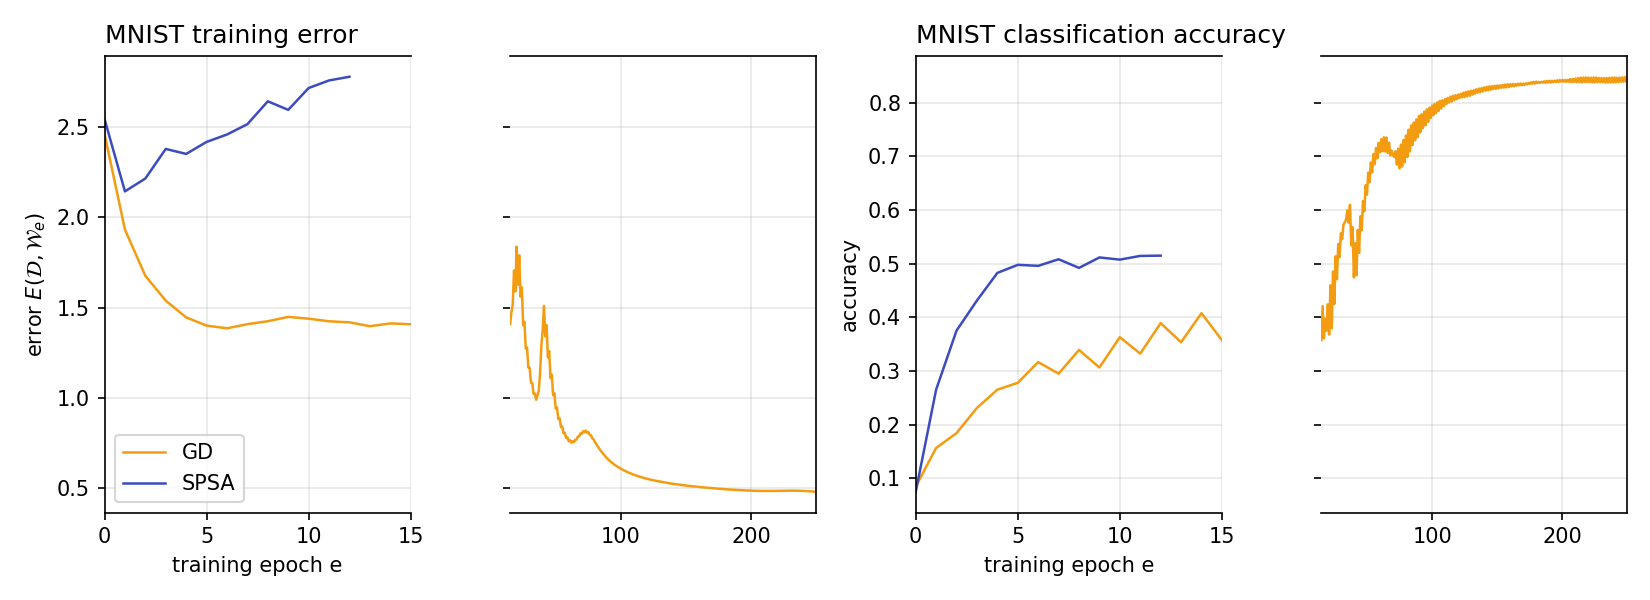
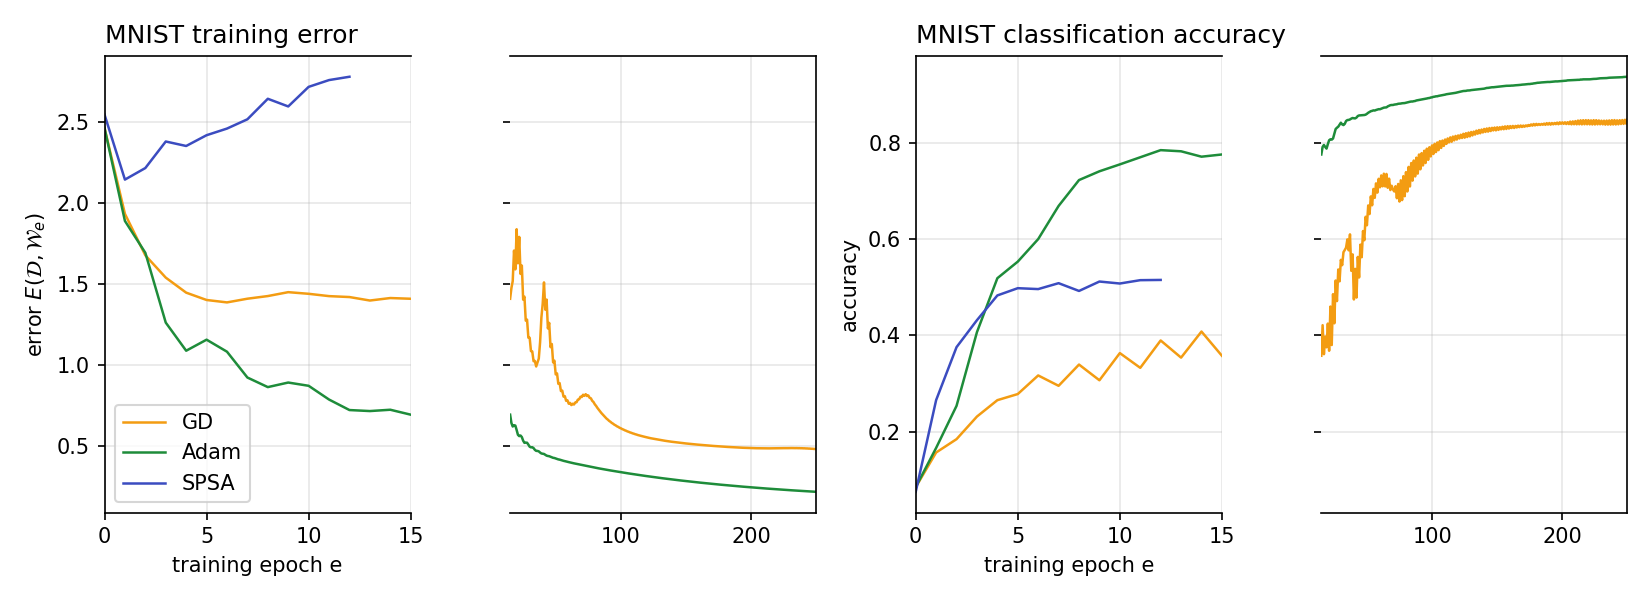
Add Adam optimizer to gradient descent baseline and update logs
- Implemented Adam optimizer in the gradient descent baseline for comparison in Fig. 2.
- Updated training logs for MNIST experiments, including results for Adam alongside SPSA and GD.
- Added new log file for MNIST with 155k parameters.
- Adjusted plotting functions to accommodate Adam results in visualizations.
- Enhanced documentation in gd.py to clarify optimizer options.
- Added tests to ensure Adam baseline reduces error as expected.

diff --git a/experiments/run_mnist.py b/experiments/run_mnist.py
@@ -1,4 +1,4 @@
-"""Reproduce Fig. 2: MNIST, layer-wise SPSA vs gradient descent.
+"""Reproduce Fig. 2: MNIST, layer-wise SPSA vs gradient descent, plus an Adam baseline.
 
 Network: 784x784x196x10 tanh network = 771,270 parameters, the count the paper states
 (p. 570) and its "close to a million parameters" claims. The paper's prose topology
@@ -11,7 +11,7 @@ beta = 1, one-hot targets in {0, 1}^10. GD baseline: learning rate 0.01.
 Examples
 --------
     python experiments/run_mnist.py                    # SPSA (3 runs) + GD, full paper protocol
-    python experiments/run_mnist.py --skip-gd          # only SPSA
+    python experiments/run_mnist.py --skip-gd --skip-adam   # only SPSA
     python experiments/run_mnist.py --quick            # 10k training images, 3 SPSA / 20 GD epochs
     python experiments/run_mnist.py --device cpu
 
@@ -62,6 +62,12 @@ def parse_args() -> argparse.Namespace:
     p.add_argument("--gd-epochs", type=int, default=250)
     p.add_argument("--gd-batch-size", type=int, default=None, help="default: full-batch GD")
     p.add_argument("--skip-gd", action="store_true")
+    # Adam baseline (not in the paper; added as a second conventional optimizer)
+    p.add_argument("--adam-lr", type=float, default=0.0003,
+                   help="Adam learning rate; 3e-4 (1e-3 collapses to a single predicted class on the 771k network)")
+    p.add_argument("--adam-epochs", type=int, default=None, help="default: same as --gd-epochs")
+    p.add_argument("--adam-batch-size", type=int, default=None, help="default: full batch, like the GD baseline")
+    p.add_argument("--skip-adam", action="store_true")
     p.add_argument("--skip-spsa", action="store_true")
     # general
     p.add_argument("--hidden", type=int, nargs="+", default=[784, 196],
@@ -85,6 +91,7 @@ def main() -> None:
         args.n_train = args.n_train or 10000
         args.epochs = min(args.epochs, 3)
         args.gd_epochs = min(args.gd_epochs, 20)
+        args.adam_epochs = min(args.adam_epochs or args.gd_epochs, 20)
     seed_everything(args.seed)
     device = get_device(args.device)
     SIZES = [784, *args.hidden, 10]
@@ -127,15 +134,24 @@ def main() -> None:
                             log_every=max(1, args.gd_epochs // 10), log_prefix="[GD] ")
         out["gd"] = {"config": gcfg.to_dict(), **ghist}
 
-    if "spsa" not in out and "gd" not in out:
+    if not args.skip_adam:
+        acfg = gd.GDConfig(sizes=SIZES, lr=args.adam_lr, epochs=args.adam_epochs or args.gd_epochs,
+                           batch_size=args.adam_batch_size, optimizer="adam", beta=1.0, init=args.init,
+                           seed=args.seed)
+        print("\n--- Adam baseline ---")
+        _, ahist = gd.train(x_tr, y_tr, acfg, device, eval_fn=eval_fn,
+                            log_every=max(1, acfg.epochs // 10), log_prefix="[Adam] ")
+        out["adam"] = {"config": acfg.to_dict(), **ahist}
+
+    if not any(k in out for k in ("spsa", "gd", "adam")):
         return
     # keep results of a previous run of the other method if only one was re-run
     prev_path = results_dir() / f"{args.name}.json"
-    if prev_path.exists() and (args.skip_gd or args.skip_spsa):
+    if prev_path.exists() and (args.skip_gd or args.skip_spsa or args.skip_adam):
         from _common import load_json
 
         prev = load_json(prev_path)
-        for k in ("spsa", "gd"):
+        for k in ("spsa", "gd", "adam"):
             if k not in out and k in prev:
                 out[k] = prev[k]
     save_json(out, prev_path)

diff --git a/spsa_nn/gd.py b/spsa_nn/gd.py
@@ -1,7 +1,13 @@
-"""Gradient-descent baseline (backpropagation) used for comparison in Fig. 2.
+"""Backpropagation baselines used for comparison in Fig. 2.
 
-Mirrors ``tf.train.GradientDescentOptimizer(learning_rate)`` applied to the
-same network and the same squared-residual objective (mean over the batch).
+optimizer='sgd'  plain gradient descent, p <- p - lr * grad; with the default
+                 full batch this mirrors ``tf.train.GradientDescentOptimizer``
+                 as in the paper.
+optimizer='adam' Adam (Kingma & Ba, 2015) with the usual defaults
+                 (betas 0.9 / 0.999, eps 1e-8), via ``torch.optim.Adam``.
+
+Both use the same network, initialisation and squared-residual objective
+(mean over the batch) as SPSA.
 """
 from __future__ import annotations
 
@@ -21,6 +27,7 @@ class GDConfig:
     lr: float = 0.01
     epochs: int = 250
     batch_size: Optional[int] = None   # None = full-batch gradient descent
+    optimizer: str = "sgd"             # 'sgd' (plain gradient descent) or 'adam'
     beta: float = 1.0
     init: str = "glorot"
     seed: int = 0
@@ -45,6 +52,10 @@ def train(
         p.requires_grad_(True)
     n = x.shape[0]
     bs = cfg.batch_size or n
+    if cfg.optimizer == "adam":
+        adam = torch.optim.Adam(params, lr=cfg.lr)
+    elif cfg.optimizer != "sgd":
+        raise ValueError(f"optimizer must be 'sgd' or 'adam', got {cfg.optimizer!r}")
 
     history: Dict[str, list] = {"error": [], "time": []}
 
@@ -67,10 +78,15 @@ def train(
                 idx = perm[i:i + bs]
                 xb, yb = x[idx], y[idx]
             loss = mlp.error(mlp.forward(xb, params, cfg.beta), yb, "mean").sum()
-            grads = torch.autograd.grad(loss, params)
-            with torch.no_grad():
-                for p, g in zip(params, grads):
-                    p.sub_(cfg.lr * g)
+            if cfg.optimizer == "adam":
+                adam.zero_grad(set_to_none=True)
+                loss.backward()
+                adam.step()
+            else:
+                grads = torch.autograd.grad(loss, params)
+                with torch.no_grad():
+                    for p, g in zip(params, grads):
+                        p.sub_(cfg.lr * g)
         record(time.perf_counter() - t0)
         if log_every and (e % log_every == 0 or e == cfg.epochs):
             msg = f"{log_prefix}epoch {e:4d}/{cfg.epochs}  E {history['error'][-1][0]:.4f}"

diff --git a/spsa_nn/plotting.py b/spsa_nn/plotting.py
@@ -61,8 +61,8 @@ def plot_error_curves(ax, errors: Dict[str, Sequence], title: Optional[str] = No
 
 
 def plot_mnist(spsa: Dict[str, list], gd: Optional[Dict[str, list]], path: str,
-               split_at: Optional[int] = None) -> None:
-    """Fig. 2: training error and test accuracy, SPSA vs GD, with a broken x-axis."""
+               split_at: Optional[int] = None, adam: Optional[Dict[str, list]] = None) -> None:
+    """Fig. 2: training error and test accuracy, SPSA vs GD (and Adam), with a broken x-axis."""
     fig = plt.figure(figsize=(11, 4))
     keys = [("error", r"error $E(\mathcal{D}, \mathcal{W}_e)$", "MNIST training error"),
             ("test_acc", "accuracy", "MNIST classification accuracy")]
@@ -72,6 +72,7 @@ def plot_mnist(spsa: Dict[str, list], gd: Optional[Dict[str, list]], path: str,
         left = fig.add_subplot(1, 4, 2 * i + 1)
         right = fig.add_subplot(1, 4, 2 * i + 2, sharey=left)
         for name, hist, color in (("GD", gd, VARIANT_COLORS["top-down"]),
+                                  ("Adam", adam, VARIANT_COLORS["random"]),
                                   ("SPSA", spsa, VARIANT_COLORS["bottom-up"])):
             if hist is None or key not in hist:
                 continue
@@ -81,8 +82,9 @@ def plot_mnist(spsa: Dict[str, list], gd: Optional[Dict[str, list]], path: str,
             if len(v) > split:
                 right.plot(ep[split:], v[split:], color=color, lw=1.2)
         left.set_xlim(0, split)
-        if gd is not None and len(gd.get(key, [])) > split:
-            right.set_xlim(split, len(gd[key]) - 1)
+        longest = max((len(h.get(key, [])) for h in (gd, adam) if h is not None), default=0)
+        if longest > split + 1:
+            right.set_xlim(split, longest - 1)
         else:
             right.set_visible(False)
         left.set_ylabel(ylabel)

diff --git a/tests/test_spsa_nn.py b/tests/test_spsa_nn.py
@@ -119,6 +119,15 @@ def test_gd_baseline_runs():
     assert len(hist["error"]) == 4
 
 
+def test_adam_baseline_reduces_error():
+    data = datasets.make_moons(n=100)
+    cfg = gd.GDConfig(sizes=[2, 5, 1], lr=0.01, epochs=30, beta=0.5, optimizer="adam")
+    _, hist = gd.train(data.x, data.y, cfg, CPU)
+    assert len(hist["error"]) == 31 and hist["error"][-1][0] < hist["error"][0][0]
+    with pytest.raises(ValueError):
+        gd.train(data.x, data.y, gd.GDConfig(sizes=[2, 5, 1], epochs=1, optimizer="rmsprop"), CPU)
+
+
 def test_datasets_shapes_and_labels():
     for name, m in (("xor", 1), ("moons", 1), ("circles", 3)):
         d = datasets.load_didactic(name)

diff --git a/experiments/summarize.py b/experiments/summarize.py
@@ -41,7 +41,7 @@ def mnist_table(d: Path) -> list[str]:
         sizes = [784, *res.get("args", {}).get("hidden", [784, 196]), 10]
         n_params = sum(a * b + b for a, b in zip(sizes[:-1], sizes[1:]))
         net = f"{'x'.join(map(str, sizes))} ({n_params:,})"
-        for key, label in (("spsa", "SPSA"), ("gd", "GD")):
+        for key, label in (("spsa", "SPSA"), ("gd", "GD"), ("adam", "Adam")):
             if key not in res:
                 continue
             h, cfg = res[key], res[key]["config"]

diff --git a/experiments/plot_results.py b/experiments/plot_results.py
@@ -67,7 +67,7 @@ def plot_mnist_results(name: str = "mnist") -> None:
         return
     res = load_json(path)
     out = results_dir() / ("fig2.png" if name == "mnist" else f"fig2_{name}.png")
-    plot_mnist(res.get("spsa"), res.get("gd"), str(out))
+    plot_mnist(res.get("spsa"), res.get("gd"), str(out), adam=res.get("adam"))
     print(f"saved {out}")
 
 

diff --git a/README.md b/README.md
@@ -198,11 +198,17 @@ default).
 
 ```bash
 python scripts/download_mnist.py          # once (also happens automatically)
-python experiments/run_mnist.py           # 3 SPSA runs x 12 epochs + GD 250 epochs, ~6 min on an RTX 3050
+python experiments/run_mnist.py           # 3 SPSA runs x 12 epochs + GD and Adam 250 epochs each, ~6.5 min on an RTX 3050
 ```
 Output: `results/mnist.json`, `results/fig2.png`.
 Options include `--hidden`, `--a --c --alpha --gamma --t-max --epochs --runs --objective --batch-size --init`,
-`--gd-lr --gd-epochs --gd-batch-size`, and `--skip-gd` / `--skip-spsa`.
+`--gd-lr --gd-epochs --gd-batch-size`, `--adam-lr --adam-epochs --adam-batch-size`, and
+`--skip-spsa` / `--skip-gd` / `--skip-adam`.
+
+Besides the paper's gradient-descent baseline, every MNIST run also trains an
+**Adam** baseline (`torch.optim.Adam`, lr 3·10⁻⁴, full batch, 250 epochs) on
+the same network, initialisation and loss, so SPSA is compared with both a
+plain and an adaptive conventional optimizer.
 
 ### 4.5 MNIST ablations from the text of Sect. 4.2
 
@@ -269,7 +275,8 @@ python -m pytest -q          # 19 tests, ~10 s (the CUDA test is skipped without
 | Eqs. 11–13 (top-down / bottom-up / random) | `layerwise.epoch_schedule` |
 | holistic baseline | `order="holistic"` |
 | Sect. 4.2 "first weights, then biases" | `TrainConfig(split_bias=True)` |
-| GD baseline (`tf.train.GradientDescentOptimizer`, lr 0.01) | `spsa_nn/gd.py` |
+| GD baseline (`tf.train.GradientDescentOptimizer`, lr 0.01) | `spsa_nn/gd.py`, `optimizer="sgd"` |
+| Adam baseline (not in the paper) | `spsa_nn/gd.py`, `optimizer="adam"` |
 
 ## 6. Settings and the choices the paper leaves open
 
@@ -299,6 +306,7 @@ changed from the command line:
 | MNIST SPSA objective | `tf.reduce_mean((y−ŷ)²)` = Eq. 9 / (n·10) | TF-style loss. With Eq. 9 / n, a = 0.1 diverges |
 | logged MNIST error | Eq. 9 / n | the scale of the y-axis in Fig. 2 |
 | GD baseline | full-batch | matches the slow GD curve in Fig. 2 (lr 0.01) |
+| Adam baseline (extra, not in the paper) | lr 3·10⁻⁴, betas 0.9 / 0.999, full batch, 250 epochs | full batch keeps one update per epoch, like GD. The usual 10⁻³ collapses on the 771k network (it predicts one class for all 250 epochs); 3·10⁻⁴ trains both networks |
 | holistic budget | L SPSA calls of t_max iterations per epoch | same number of forward passes as layer-wise |
 | random order | independent permutation per trial and per epoch | Eq. 13 |
 
@@ -342,6 +350,7 @@ against them: `python experiments/summarize.py --dir paper_results/data`.
 | Fig. 1c/f: holistic doesn't converge on circles | ✅ yes | only 40 % of trials ≥ 95 % accuracy, vs 100 % for layer-wise |
 | Fig. 2: SPSA learns faster than GD in the first epochs | ✅ yes | epoch 12: 0.515 (SPSA) vs 0.389 (GD) test accuracy |
 | Fig. 2: GD ends higher after long training | ✅ yes | GD 0.848 at epoch 250 |
+| Extra: comparison with Adam (not in the paper) | – | Adam is ahead of SPSA from epoch 4 on the 771k network (0.784 vs 0.515 at epoch 12) and ends at 0.937; on the 155k network Adam ≈ SPSA at epoch 12 (0.532 vs 0.548), then 0.896 |
 | Fig. 2: SPSA ≈ 0.72 test accuracy at epoch 12, training error falling | ⚠ partly | 0.515 (0.48–0.56 over 3 runs); the training error rises slightly (2.55 → 2.78) |
 | Sect. 4.2: holistic SPSA fails on MNIST | ⚠ partly | the objective diverges (E 2.55 → 5.60); accuracy still climbs to 0.47 |
 | Sect. 4.2: no learning without the weights/biases split | ❌ no | without the split: 0.527, same as with it (0.515) |
@@ -380,6 +389,7 @@ Main experiment, 771,270-parameter network (784×784×196×10):
 |---|---|---|---|---|---|---|---|---|
 | `mnist` | 784×784×196×10 (771,270) | SPSA | bottom-up | yes | 12 | 2.55 → 2.78 | 0.481, 0.558, 0.505 | 0.515 |
 | `mnist` | 784×784×196×10 (771,270) | GD (full batch, lr 0.01) | – | – | 250 | 2.46 → 0.48 | 0.389 | 0.848 |
+| `mnist` | 784×784×196×10 (771,270) | **Adam** (full batch, lr 3·10⁻⁴) | – | – | 250 | 2.46 → 0.22 | 0.784 | **0.937** |
 | `mnist_holistic` | 784×784×196×10 (771,270) | SPSA | holistic | yes | 12 | 2.55 → **5.60** | 0.465, 0.408, 0.527 | 0.467 |
 | `mnist_no_split_bias` | 784×784×196×10 (771,270) | SPSA | bottom-up | no | 12 | 2.55 → 2.71 | 0.524, 0.484, 0.572 | 0.527 |
 
@@ -389,6 +399,7 @@ For comparison, the literal text topology (784×196×10):
 |---|---|---|---|---|---|---|---|---|
 | `mnist_155k` | 784×196×10 (155,830) | SPSA | bottom-up | yes | 12 | 2.54 → 2.01 | 0.519, 0.566, 0.558 | 0.548 |
 | `mnist_155k` | 784×196×10 (155,830) | GD (full batch, lr 0.01) | – | – | 250 | 2.34 → 0.55 | 0.352 | 0.805 |
+| `mnist_155k` | 784×196×10 (155,830) | **Adam** (full batch, lr 3·10⁻⁴) | – | – | 250 | 2.34 → 0.33 | 0.532 | **0.896** |
 | `mnist_155k_holistic` | 784×196×10 (155,830) | SPSA | holistic | yes | 12 | 2.54 → **4.37** | 0.482, 0.493, 0.481 | 0.485 |
 | `mnist_155k_no_split_bias` | 784×196×10 (155,830) | SPSA | bottom-up | no | 12 | 2.54 → 1.98 | 0.559, 0.587, 0.530 | 0.558 |
 
@@ -406,15 +417,46 @@ paper doesn't report (init, loss scale, gain schedule), all of which can be
 changed through `run_mnist.py` flags. GD benefits from the bigger network
 (0.848 vs 0.805).
 
+#### SPSA vs. GD vs. Adam
+
+Test accuracy (mean of the 3 SPSA runs; GD and Adam are single runs):
+
+| network | method | epoch 1 | epoch 3 | epoch 12 | epoch 50 | epoch 250 | training error, epoch 12 |
+|---|---|---|---|---|---|---|---|
+| 771k | SPSA (forward passes only) | **0.265** | **0.431** | 0.515 | – | – | 2.78 |
+| 771k | GD, lr 0.01 | 0.157 | 0.231 | 0.389 | 0.628 | 0.848 | 1.42 |
+| 771k | Adam, lr 3·10⁻⁴ | 0.166 | 0.407 | **0.784** | 0.860 | **0.937** | 0.72 |
+| 155k | SPSA (forward passes only) | **0.195** | **0.299** | **0.548** | – | – | 2.01 |
+| 155k | GD, lr 0.01 | 0.095 | 0.136 | 0.352 | 0.630 | 0.805 | 1.24 |
+| 155k | Adam, lr 3·10⁻⁴ | 0.094 | 0.149 | 0.532 | 0.800 | **0.896** | 1.07 |
+
+* **Early on, SPSA leads both.** It is ahead of GD and Adam for the first 3
+  epochs on both networks, and still ahead of GD at epoch 12. It is also tied
+  with Adam at epoch 12 on the 155k network.
+* **Adam is the strongest overall.** It overtakes SPSA around epoch 4 on the
+  771k network and ends highest on both (0.937 / 0.896). Its training error
+  falls steadily, while SPSA's stalls (155k) or creeps up (771k).
+* **Plain GD is the slowest early** but keeps improving; GD and Adam both
+  continue well past where SPSA levels off at about 0.5.
+* **Epochs aren't equal work.** One SPSA epoch is 6 blocks (weights and biases
+  of 3 layers) × 50 iterations = 300 parameter updates and 600 forward passes
+  over the training set. One GD or Adam epoch is a single update, using one
+  forward and one backward pass. SPSA's early lead therefore costs far more
+  forward passes, but it never needs a gradient or backpropagation.
+* **Adam needs a smaller learning rate here.** At Adam's usual lr = 10⁻³, the
+  771k network gets stuck predicting a single digit (test accuracy 0.1135 for
+  all 250 epochs, while the error still falls). lr = 3·10⁻⁴ trains both
+  networks, so that value is used for both.
+
 ### Runtimes (RTX 3050 Laptop GPU)
 
 | experiment | time |
 |---|---|
 | xor or moons, all 4 variants | ≈ 1.5 min |
 | circles, all 4 variants (100 trials × 500 epochs) | ≈ 70 min |
-| MNIST 771k: SPSA 3 runs × 12 epochs + GD 250 epochs | ≈ 5 min + 40 s |
+| MNIST 771k: SPSA 3 runs × 12 epochs + GD and Adam 250 epochs each | ≈ 5 min + 40 s + 40 s |
 | MNIST 771k ablations: holistic / no split | ≈ 6 min / 2.5 min |
-| MNIST 155k: SPSA + GD, and each ablation | ≈ 1.2 min, 0.5–1 min |
+| MNIST 155k: SPSA + GD + Adam, and each ablation | ≈ 1.3 min, 0.5–1 min |
 
 Random order and holistic are slower because they can't cache the outputs
 of the fixed lower layers. The tiny didactic networks are limited by

diff --git a/paper_results/SUMMARY.md b/paper_results/SUMMARY.md
@@ -21,8 +21,10 @@
 |---|---|---|---|---|---|---|---|---|
 | mnist | 784x784x196x10 (771,270) | SPSA | bottom-up | yes | 12 | 2.55 -> 2.78 | 0.481, 0.558, 0.505 | 0.515 |
 | mnist | 784x784x196x10 (771,270) | GD | - | - | 250 | 2.46 -> 0.48 | 0.389 | 0.848 |
+| mnist | 784x784x196x10 (771,270) | Adam | - | - | 250 | 2.46 -> 0.22 | 0.784 | 0.937 |
 | mnist_155k | 784x196x10 (155,830) | SPSA | bottom-up | yes | 12 | 2.54 -> 2.01 | 0.519, 0.566, 0.558 | 0.548 |
 | mnist_155k | 784x196x10 (155,830) | GD | - | - | 250 | 2.34 -> 0.55 | 0.352 | 0.805 |
+| mnist_155k | 784x196x10 (155,830) | Adam | - | - | 250 | 2.34 -> 0.33 | 0.532 | 0.896 |
 | mnist_155k_holistic | 784x196x10 (155,830) | SPSA | holistic | yes | 12 | 2.54 -> 4.37 | 0.482, 0.493, 0.481 | 0.485 |
 | mnist_155k_no_split_bias | 784x196x10 (155,830) | SPSA | bottom-up | no | 12 | 2.54 -> 1.98 | 0.559, 0.587, 0.530 | 0.558 |
 | mnist_holistic | 784x784x196x10 (771,270) | SPSA | holistic | yes | 12 | 2.55 -> 5.60 | 0.465, 0.408, 0.527 | 0.467 |
